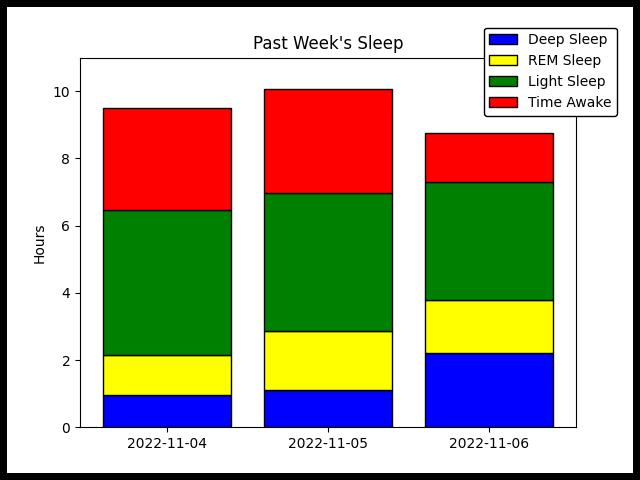
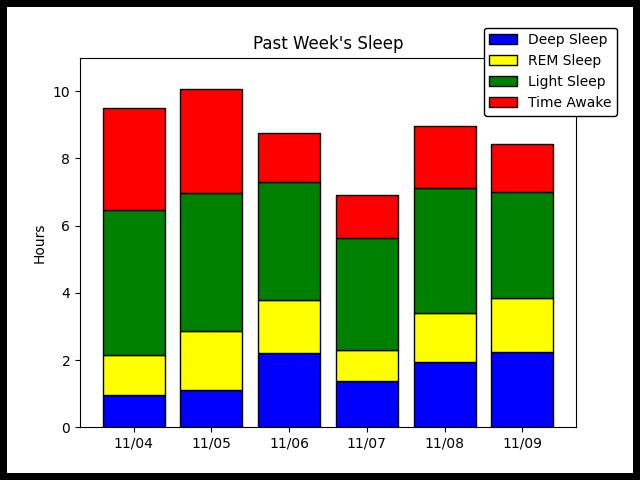
Fixed date

Changed region(s): [[0.1562, 0.1562, 0.875, 0.9375]]

diff --git a/generateGraph.py b/generateGraph.py
@@ -41,7 +41,9 @@ def generate():
     lightSleep=[]
     for item in data['data']:
         if(item["type"] == "long_sleep" or item["type"] == "sleep"):
-            label.append(item['day'])
+            tmpList=[]
+            tmpList = item['day'].split('-')
+            label.append(str(int(tmpList[1]))+"/"+tmpList[2])
             deepSleep.append(round(item["deep_sleep_duration"]/3600,2))
             remSleep.append(round((item["rem_sleep_duration"])/3600,2))
             lightSleep.append(round((item["light_sleep_duration"])/3600,2))
